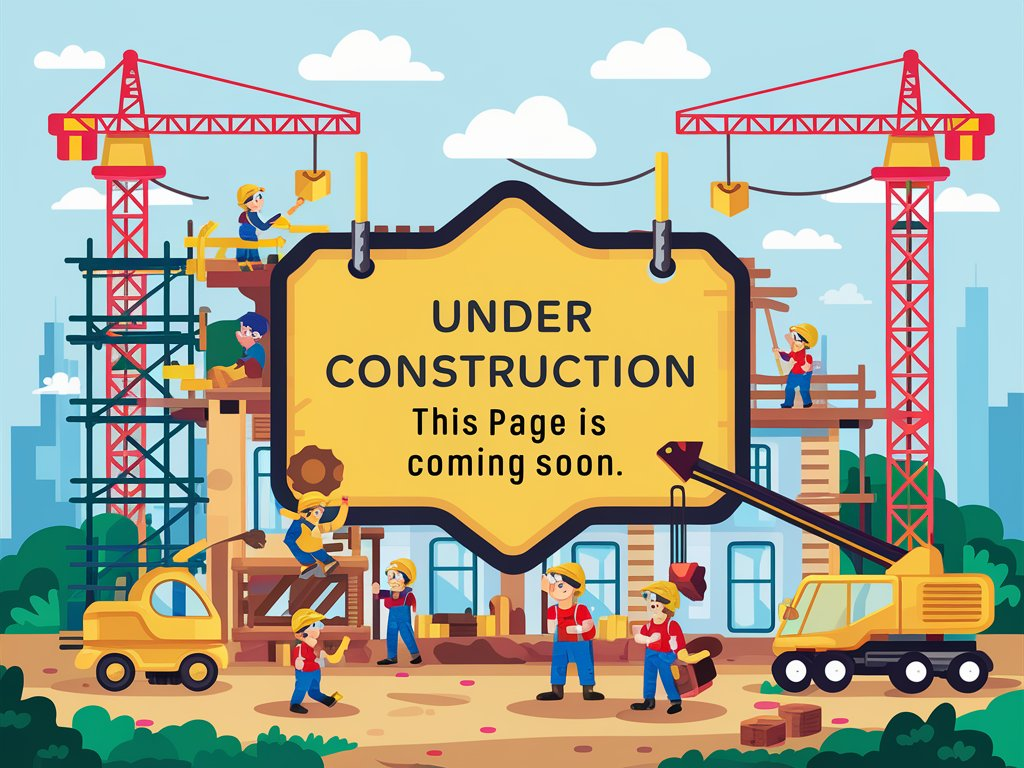
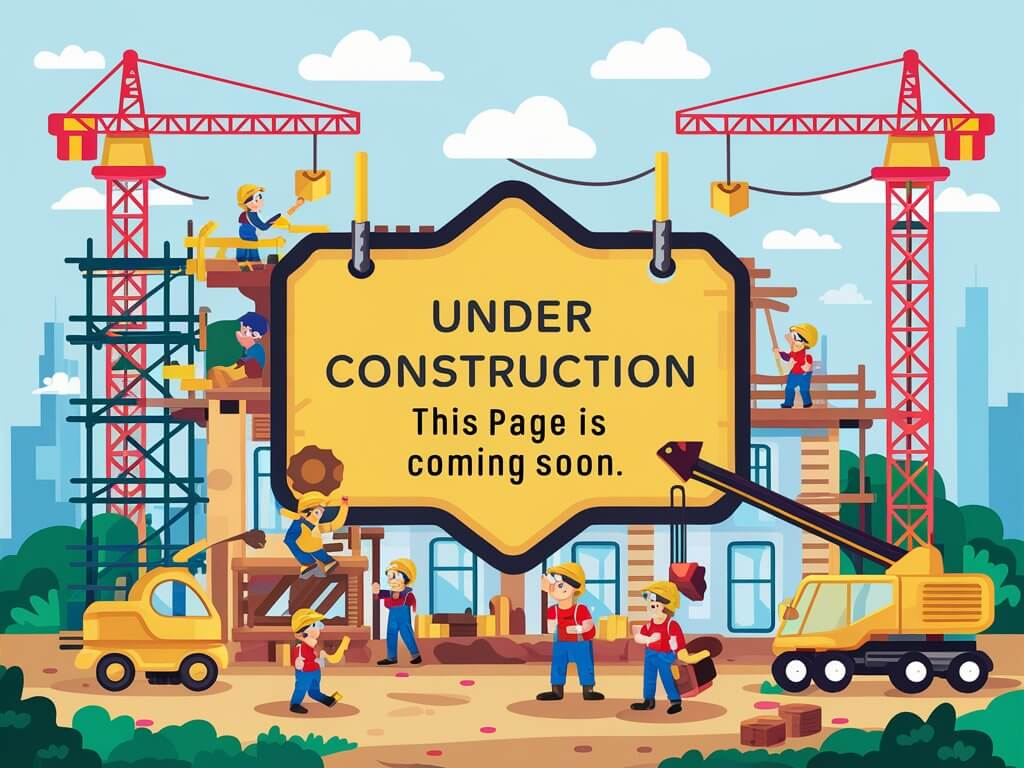
not found page added

diff --git a/src/App.tsx b/src/App.tsx
@@ -1,6 +1,7 @@
 import { BrowserRouter, Route, Routes } from "react-router-dom";
 import "./App.css";
 import Layout from "./components/shared/Layout";
+import PageNotFound from "./components/shared/PageNotFound";
 import UnderConstruction from "./components/shared/UnderConstruction";
 import { Toaster } from "./components/ui/sonner";
 import Home from "./pages/Home";
@@ -21,6 +22,7 @@ const App = () => {
             <Route path="login" element={<UnderConstruction />} />
             <Route path="privacy-policy" element={<UnderConstruction />} />
             <Route path="terms-of-use" element={<UnderConstruction />} />
+            <Route path="*" element={<PageNotFound />} />
           </Route>
         </Routes>
       </BrowserRouter>

diff --git a/src/components/shared/PageNotFound.tsx b/src/components/shared/PageNotFound.tsx
@@ -1,0 +1,15 @@
+const PageNotFound = () => {
+  return (
+    <section className="py-16 md:py-20">
+      <div className="container flex justify-center">
+        <img
+          className="w-full max-w-3xl"
+          src="/page-not-found.png"
+          alt="Page not found"
+        />
+      </div>
+    </section>
+  );
+};
+
+export default PageNotFound;
